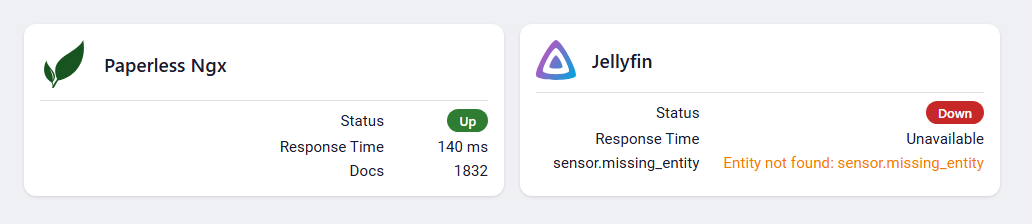
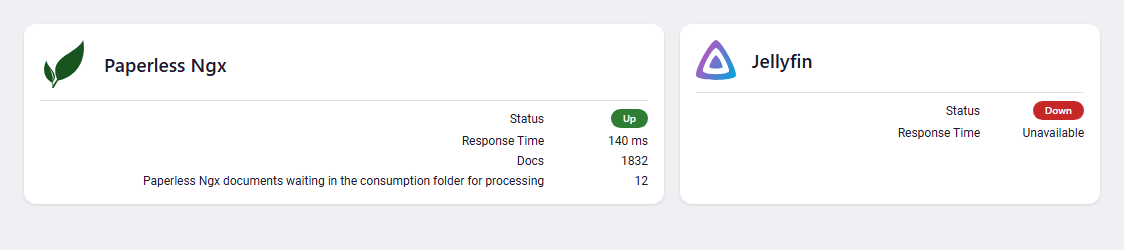
Wider card, single-line entity names, per-entity display names
- Default to full section width (12 columns) in sections dashboards
- Entity rows use 12px text; long names stay on one line with an
  ellipsis and show the full name on hover
- Visual editor: entity list with optional display name per entity,
  move up/down, remove and an "Add entity" picker
- Update demo, preview screenshot, README and CLAUDE.md

diff --git a/dist/homelab-service-card.js b/dist/homelab-service-card.js
@@ -81,7 +81,7 @@ const STYLES = `
   }
   .rows {
     display: grid;
-    grid-template-columns: 1fr minmax(80px, auto);
+    grid-template-columns: minmax(0, 1fr) minmax(80px, auto);
     column-gap: 24px;
     row-gap: 6px;
     align-items: center;
@@ -93,11 +93,17 @@ const STYLES = `
     align-items: center;
     cursor: pointer;
   }
-  .label, .value { font-size: 0.95em; }
+  .label, .value { font-size: 12px; }
   .label {
     justify-self: end;
     text-align: right;
     color: var(--primary-text-color);
+    /* Long names stay on one line and are truncated with an ellipsis. */
+    white-space: nowrap;
+    overflow: hidden;
+    text-overflow: ellipsis;
+    min-width: 0;
+    max-width: 100%;
   }
   .value {
     justify-self: end;
@@ -188,7 +194,8 @@ class HomelabServiceCard extends HTMLElement {
   }
 
   getGridOptions() {
-    return { columns: 6, min_columns: 3 };
+    // Full section width (12 of 12 columns) by default: twice a regular card.
+    return { columns: 12, min_columns: 6 };
   }
 
   _watchedEntities() {
@@ -256,7 +263,7 @@ class HomelabServiceCard extends HTMLElement {
 
   _renderRow(entityId, label, value) {
     return `<div class="row" data-entity="${escapeHtml(entityId)}" role="button" tabindex="0">
-      <div class="label">${label}</div>
+      <div class="label" title="${label}">${label}</div>
       <div class="value">${value}</div>
     </div>`;
   }
@@ -326,8 +333,21 @@ const EDITOR_SCHEMA = [
   },
   { name: "status_entity", selector: { entity: {} } },
   { name: "status_label", selector: { text: {} } },
-  { name: "entities", selector: { entity: { multiple: true } } },
 ];
+
+// One row per additional entity: entity picker + optional display name.
+const ENTITY_ROW_SCHEMA = [
+  {
+    type: "grid",
+    name: "",
+    schema: [
+      { name: "entity", selector: { entity: {} } },
+      { name: "name", selector: { text: {} } },
+    ],
+  },
+];
+
+const ADD_ENTITY_SCHEMA = [{ name: "entity", selector: { entity: {} } }];
 
 const EDITOR_LABELS = {
   name: "Service name",
@@ -337,7 +357,6 @@ const EDITOR_LABELS = {
   icon_size: "Icon size",
   status_entity: "Status entity (Up / Down)",
   status_label: "Status label",
-  entities: "Additional entities",
 };
 
 const EDITOR_HELPERS = {
@@ -345,10 +364,36 @@ const EDITOR_HELPERS = {
   icon: "For example https://cdn.jsdelivr.net/gh/selfhst/icons/svg/paperless-ngx.svg (see selfh.st/icons)",
   icon_size: "The icon is shown as a square of this size.",
   status_entity: "Shown as a green Up or red Down pill. States like on, up, online count as Up.",
-  entities: "Each entity is shown on its own line with its name and value.",
 };
 
+const ENTITY_ROW_LABELS = { entity: "Entity", name: "Display name (optional)" };
+
+// Material Design Icons paths (mdi:arrow-up, mdi:arrow-down, mdi:delete).
+const MDI_ARROW_UP = "M13,20H11V8L5.5,13.5L4.08,12.08L12,4.16L19.92,12.08L18.5,13.5L13,8V20Z";
+const MDI_ARROW_DOWN = "M11,4H13V16L18.5,10.5L19.92,11.92L12,19.84L4.08,11.92L5.5,10.5L11,16V4Z";
+const MDI_DELETE =
+  "M19,4H15.5L14.5,3H9.5L8.5,4H5V6H19M6,19A2,2 0 0,0 8,21H16A2,2 0 0,0 18,19V7H6V19Z";
+
+const EDITOR_STYLES = `
+  .hsc-entities-title { font-weight: 500; margin: 24px 0 4px; }
+  .hsc-entities-help {
+    color: var(--secondary-text-color);
+    font-size: 0.875em;
+    margin-bottom: 8px;
+  }
+  .hsc-entity-row { display: flex; align-items: center; gap: 4px; margin-bottom: 8px; }
+  .hsc-entity-row ha-form { flex: 1; min-width: 0; }
+  .hsc-entity-row ha-icon-button { color: var(--secondary-text-color); flex: none; }
+`;
+
+const toEntityEntry = ({ entity, name }) => (name ? { entity, name } : entity);
+
 class HomelabServiceCardEditor extends HTMLElement {
+  constructor() {
+    super();
+    this._rows = [];
+  }
+
   setConfig(config) {
     this._config = { ...config };
     this._render();
@@ -357,6 +402,8 @@ class HomelabServiceCardEditor extends HTMLElement {
   set hass(hass) {
     this._hass = hass;
     if (this._form) this._form.hass = hass;
+    if (this._addForm) this._addForm.hass = hass;
+    for (const row of this._rows) row.form.hass = hass;
   }
 
   connectedCallback() {
@@ -377,33 +424,125 @@ class HomelabServiceCardEditor extends HTMLElement {
 
   _render() {
     if (!this._config || !customElements.get("ha-form")) return;
-    if (!this._form) {
-      this._form = document.createElement("ha-form");
-      this._form.schema = EDITOR_SCHEMA;
-      this._form.computeLabel = (s) => EDITOR_LABELS[s.name] ?? s.name;
-      this._form.computeHelper = (s) => EDITOR_HELPERS[s.name];
-      this._form.addEventListener("value-changed", (ev) => this._valueChanged(ev));
-      this.appendChild(this._form);
-    }
+    if (!this._form) this._build();
+
+    const { entities, ...rest } = this._config;
     this._form.hass = this._hass;
-    this._form.data = {
-      ...DEFAULTS,
-      ...this._config,
-      entities: normalizeEntities(this._config.entities).map((e) => e.entity),
-    };
+    this._form.data = { ...DEFAULTS, ...rest };
+    this._renderEntityRows();
   }
 
-  _valueChanged(ev) {
-    ev.stopPropagation();
-    const value = ev.detail.value;
-    // Keep per-entity options (e.g. a name set in YAML) for entities still in the list.
-    const existing = new Map(normalizeEntities(this._config.entities).map((e) => [e.entity, e]));
-    const entities = (value.entities ?? []).map((id) => {
-      const prev = existing.get(id);
-      return prev && Object.keys(prev).length > 1 ? prev : id;
+  _build() {
+    const style = document.createElement("style");
+    style.textContent = EDITOR_STYLES;
+
+    this._form = document.createElement("ha-form");
+    this._form.schema = EDITOR_SCHEMA;
+    this._form.computeLabel = (s) => EDITOR_LABELS[s.name] ?? s.name;
+    this._form.computeHelper = (s) => EDITOR_HELPERS[s.name];
+    this._form.addEventListener("value-changed", (ev) => this._mainChanged(ev));
+
+    const title = document.createElement("div");
+    title.className = "hsc-entities-title";
+    title.textContent = "Additional entities";
+    const help = document.createElement("div");
+    help.className = "hsc-entities-help";
+    help.textContent =
+      "Each entity is shown on its own line. Leave the display name empty to use the entity name.";
+
+    this._list = document.createElement("div");
+
+    this._addForm = document.createElement("ha-form");
+    this._addForm.schema = ADD_ENTITY_SCHEMA;
+    this._addForm.data = {};
+    this._addForm.computeLabel = () => "Add entity";
+    this._addForm.addEventListener("value-changed", (ev) => {
+      ev.stopPropagation();
+      const id = ev.detail.value?.entity;
+      if (!id) return;
+      this._setEntities([...this._entities(), id]);
+      this._addForm.data = {};
     });
 
-    const config = { ...this._config, ...value, entities };
+    this.append(style, this._form, title, help, this._list, this._addForm);
+  }
+
+  _entities() {
+    return normalizeEntities(this._config.entities).map(toEntityEntry);
+  }
+
+  _renderEntityRows() {
+    const entities = normalizeEntities(this._config.entities);
+    if (this._rows.length !== entities.length) {
+      this._list.replaceChildren();
+      this._rows = entities.map((_, index) => this._createRow(index));
+    }
+    this._addForm.hass = this._hass;
+    this._rows.forEach((row, i) => {
+      row.form.hass = this._hass;
+      row.form.data = { entity: entities[i].entity, name: entities[i].name ?? "" };
+      row.up.disabled = i === 0;
+      row.down.disabled = i === entities.length - 1;
+    });
+  }
+
+  _createRow(index) {
+    const el = document.createElement("div");
+    el.className = "hsc-entity-row";
+
+    const form = document.createElement("ha-form");
+    form.schema = ENTITY_ROW_SCHEMA;
+    form.computeLabel = (s) => ENTITY_ROW_LABELS[s.name] ?? s.name;
+    form.addEventListener("value-changed", (ev) => {
+      ev.stopPropagation();
+      const list = this._entities();
+      const value = ev.detail.value ?? {};
+      if (value.entity) list[index] = toEntityEntry(value);
+      else list.splice(index, 1); // Clearing the entity picker removes the row.
+      this._setEntities(list);
+    });
+
+    const button = (path, label, onClick) => {
+      const b = document.createElement("ha-icon-button");
+      b.path = path;
+      b.label = label;
+      b.addEventListener("click", onClick);
+      return b;
+    };
+    const move = (delta) => {
+      const list = this._entities();
+      const target = index + delta;
+      if (target < 0 || target >= list.length) return;
+      [list[index], list[target]] = [list[target], list[index]];
+      this._setEntities(list);
+    };
+    const up = button(MDI_ARROW_UP, "Move up", () => move(-1));
+    const down = button(MDI_ARROW_DOWN, "Move down", () => move(1));
+    const remove = button(MDI_DELETE, "Remove", () => {
+      const list = this._entities();
+      list.splice(index, 1);
+      this._setEntities(list);
+    });
+
+    el.append(form, up, down, remove);
+    this._list.appendChild(el);
+    return { form, up, down };
+  }
+
+  _setEntities(entities) {
+    this._config = { ...this._config, entities };
+    this._fireChanged();
+    this._renderEntityRows();
+  }
+
+  _mainChanged(ev) {
+    ev.stopPropagation();
+    this._config = { ...this._config, ...ev.detail.value };
+    this._fireChanged();
+  }
+
+  _fireChanged() {
+    const config = { ...this._config };
     for (const key of Object.keys(config)) {
       if (config[key] === "" || config[key] === undefined) delete config[key];
     }

diff --git a/demo/index.html b/demo/index.html
@@ -18,7 +18,7 @@
       --success-color: #2e7d32;
       --error-color: #c62828;
       display: grid;
-      grid-template-columns: repeat(auto-fill, 480px);
+      grid-template-columns: 640px 420px;
       gap: 16px;
     }
   </style>
@@ -43,6 +43,9 @@
           state: "140", attributes: { friendly_name: "Response Time", unit_of_measurement: "ms" },
         },
         "sensor.paperless_documents": { state: "1832", attributes: { friendly_name: "Documents" } },
+        "sensor.paperless_long": {
+          state: "12", attributes: { friendly_name: "Paperless Ngx documents waiting in the consumption folder for processing" },
+        },
         "sensor.jellyfin_status": { state: "down", attributes: { friendly_name: "Jellyfin" } },
         "sensor.jellyfin_response_time": {
           state: "unavailable", attributes: { friendly_name: "Response Time", unit_of_measurement: "ms" },
@@ -57,7 +60,11 @@
         icon: "https://cdn.jsdelivr.net/gh/selfhst/icons/svg/paperless-ngx.svg",
         icon_size: 48,
         status_entity: "binary_sensor.paperless_status",
-        entities: ["sensor.paperless_response_time", { entity: "sensor.paperless_documents", name: "Docs" }],
+        entities: [
+          "sensor.paperless_response_time",
+          { entity: "sensor.paperless_documents", name: "Docs" },
+          "sensor.paperless_long",
+        ],
       },
       {
         name: "Jellyfin",
@@ -65,7 +72,7 @@
         icon: "https://cdn.jsdelivr.net/gh/selfhst/icons/svg/jellyfin.svg",
         icon_size: 40,
         status_entity: "sensor.jellyfin_status",
-        entities: ["sensor.jellyfin_response_time", "sensor.missing_entity"],
+        entities: ["sensor.jellyfin_response_time"],
       },
     ];
 

diff --git a/README.md b/README.md
@@ -14,6 +14,8 @@ any number of extra entities such as response time.
 - Icon and name link to your service (opens in a new tab by default).
 - Status entity shown as a green **Up** or red **Down** pill.
 - Any number of additional entities, one per line, with name and value.
+  Each entity can have its own display name. Long names stay on one line and are shortened with "…".
+- Full width in sections dashboards by default (resizable in the layout editor).
 - Click a row to open the entity's more-info dialog.
 - Fully configurable in the visual editor, no YAML needed.
 - Works with icons from [selfh.st/icons](https://selfh.st/icons/), any image URL, or `mdi:` icons.
@@ -63,7 +65,7 @@ entities:
 | `icon_size`       | number  | `48`     | Icon size in pixels. The icon is shown as a square.                                             |
 | `status_entity`   | entity  |          | Entity for the service state, shown as the first row with an Up / Down pill.                    |
 | `status_label`    | string  | `Status` | Label of the status row.                                                                        |
-| `entities`        | list    | `[]`     | Additional entities, one per line. Each item is an entity ID or `{ entity, name }`.             |
+| `entities`        | list    | `[]`     | Additional entities, one per line. Each item is an entity ID or `{ entity, name }`, where `name` overrides the displayed name. |
 
 ### Up / Down states
 

diff --git a/CLAUDE.md b/CLAUDE.md
@@ -29,8 +29,12 @@ the owner's homelab: icon, name, an Up/Down status pill, and extra entity rows
   entity data through `escapeHtml`, and URLs through `safeUrl`**.
 - Two elements: `homelab-service-card` and `homelab-service-card-editor`. The editor wraps Home
   Assistant's built-in `ha-form` with selectors.
-- `entities` items may be strings or `{ entity, name }`. The editor uses a multi-entity selector
-  (strings) and keeps existing object entries so YAML-only names aren't lost.
+- `entities` items may be strings or `{ entity, name }` (`name` = optional display name). The editor
+  has its own entity list: one `ha-form` per row (entity picker + display name) with move up/down
+  and remove buttons (`ha-icon-button`), plus an "Add entity" picker. Rows are only rebuilt when the
+  count changes, so typing a name doesn't lose focus.
+- Layout owner preferences: rows use 12px text; entity labels never wrap (ellipsis + tooltip);
+  the card defaults to full section width (`getGridOptions` → 12 columns).
 
 ## HACS constraints
 
